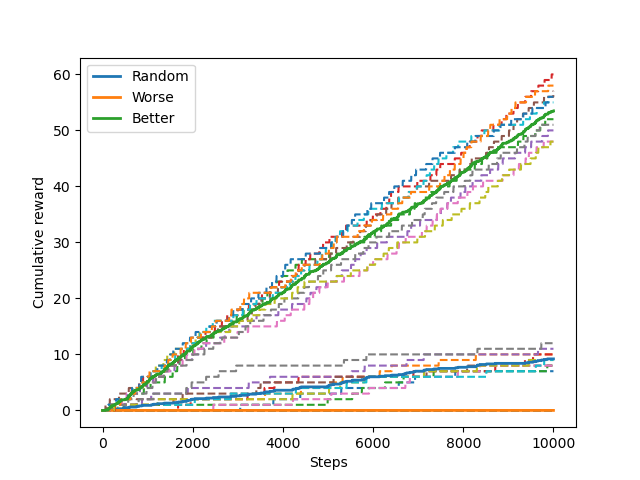
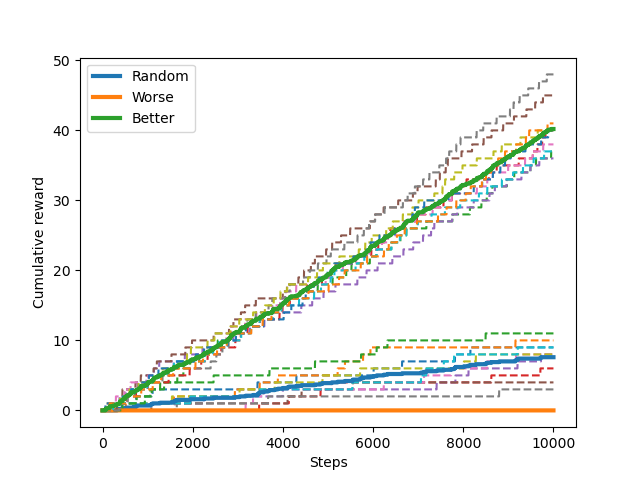
better policy working for both scenarios; target known and unknown

diff --git a/Assignment1/main.py b/Assignment1/main.py
@@ -20,7 +20,7 @@ def q1():
     print("Enter desired action : ")
     action = input()
     action_object = Action.Action(action)
-    random_policy = randomPolicy.RandomPolicy(my_grid)
+    random_policy = randomPolicy.RandomPolicy()
     simulation_object_random = Simulation.Simulation(my_grid, random_policy)
     curr_state, reward = simulation_object_random.transition(curr_state, action_object)
     print("Next state : ", curr_state.x, " ", curr_state.y)
@@ -48,7 +48,7 @@ def q3():
     source = (0, 0)
     target = (10, 10)
     my_grid = environment.Environment(source, target)
-    random_policy = randomPolicy.RandomPolicy(my_grid)
+    random_policy = randomPolicy.RandomPolicy()
     simulation_object_random = Simulation.Simulation(my_grid, random_policy)
     simulation_object_random.simulate()
     return
@@ -59,9 +59,9 @@ def q4():
     # fixed target
     target = (10, 10)
     my_grid = environment.Environment(source, target)
-    worse_policy = worsePolicy.WorsePolicy(my_grid)
-    random_policy = randomPolicy.RandomPolicy(my_grid)
-    better_policy = betterPolicy.BetterPolicy(my_grid)
+    worse_policy = worsePolicy.WorsePolicy()
+    random_policy = randomPolicy.RandomPolicy()
+    better_policy = betterPolicy.BetterPolicy(target)
     simulation_object_random = Simulation.Simulation(my_grid, random_policy)
     simulation_object_random.simulate()
     simulation_object_worse = Simulation.Simulation(my_grid, worse_policy)
@@ -76,12 +76,17 @@ def q5():
     # random target
     target = (randint(0, 10), randint(0, 10))
     my_grid = environment.Environment(source, target)
-    random_policy = randomPolicy.RandomPolicy(my_grid)
+    worse_policy = worsePolicy.WorsePolicy()
+    random_policy = randomPolicy.RandomPolicy()
+    better_policy = betterPolicy.BetterPolicy(target)
+    learned_policy = learnedPolicy.LearnedPolicy()
     simulation_object_random = Simulation.Simulation(my_grid, random_policy)
     simulation_object_random.simulate()
-    random_policy.print_lookup()
-    learned_policy = learnedPolicy.LearnedPolicy(my_grid)
     simulation_object_learned = Simulation.Simulation(my_grid, learned_policy)
+    simulation_object_learned.simulate()
+    simulation_object_worse = Simulation.Simulation(my_grid, worse_policy)
+    simulation_object_worse.simulate()
+    simulation_object_learned = Simulation.Simulation(my_grid, better_policy)
     simulation_object_learned.simulate()
     learned_policy.print_lookup()
     return

diff --git a/Assignment1/betterPolicy.py b/Assignment1/betterPolicy.py
@@ -2,49 +2,25 @@ from random import random, choice
 
 
 class BetterPolicy:
-    def __init__(self, grid):
+    def __init__(self, target):
         self.name = "Better"
-        height = grid.upper_limit - grid.lower_limit + 1
-        width = grid.right_limit - grid.left_limit + 1
-        self.lookup = [[{"up": 0, "down": 0, "left": 0, "right": 0}] * height] * width
+        self.lookup = [[{"up": 0, "down": 0, "left": 0, "right": 0}] * 11] * 11
+        self.target = target
         return
 
     def get_action(self, curr_state):
         action_prob = random()
-        if action_prob < 0.8:
+        if action_prob < 0.7:
             return choice(["up", "down", "left", "right"])
-        if curr_state.x < 5:
-            if curr_state.y >= 9:
-                return "down"
-            elif 6 <= curr_state.y < 8:
-                return "up"
-            elif curr_state.y == 8:
-                return "right"
-            elif curr_state.y < 4:
-                return "up"
-            elif curr_state.y == 4:
-                if curr_state.x == 0:
-                    return "right"
-                elif curr_state.x == 1:
-                    return "up"
-                else:
-                    return "left"
+        if curr_state.x<self.target[0]:
+            if curr_state.y<self.target[1]:
+                return choice(["up", "right"])
             else:
-                return "up"
-        elif curr_state.x == 5:
-            return "right"
+                return choice(["down", "right"])
         else:
-            if curr_state.y <= 2:
-                return "up"
-            elif curr_state.y == 3:
-                if curr_state.x < 8:
-                    return "right"
-                elif curr_state.x > 8:
-                    return "left"
-                else:
-                    return "up"
-            elif curr_state.y == 10:
-                return "right"
+            if curr_state.y<self.target[1]:
+                return choice(["up", "left"])
             else:
-                return "up"
-        return "up"
+                return choice(["down", "left"])
+        return choice(["up", "down", "left", "right"])
+    

diff --git a/Assignment1/randomPolicy.py b/Assignment1/randomPolicy.py
@@ -1,11 +1,9 @@
 import random
 
 class RandomPolicy:
-    def __init__(self, grid):
+    def __init__(self):
         self.name = "Random"
-        height = grid.upper_limit - grid.lower_limit + 1
-        width = grid.right_limit - grid.left_limit + 1
-        self.lookup = [[{"up": 0, "down": 0, "left": 0, "right": 0}] * height] * width
+        self.lookup = [[{"up": 0, "down": 0, "left": 0, "right": 0}] * 11] * 11
 
     def get_action(self, curr_state):
         return random.choice(["up", "down", "left", "right"])

diff --git a/Assignment1/learnedPolicy.py b/Assignment1/learnedPolicy.py
@@ -2,11 +2,9 @@ import random
 
 
 class LearnedPolicy:
-    def __init__(self, grid):
+    def __init__(self):
         self.name = "Learned"
-        height = grid.upper_limit - grid.lower_limit + 1
-        width = grid.right_limit - grid.left_limit + 1
-        self.lookup = [[{"up": 0, "down": 0, "left": 0, "right": 0}] * height] * width
+        self.lookup = [[{"up": 0, "down": 0, "left": 0, "right": 0}] * 11] * 11
         self.epsilon = 0.1
 
     def get_action(self, curr_state):

diff --git a/Assignment1/worsePolicy.py b/Assignment1/worsePolicy.py
@@ -1,9 +1,7 @@
 class WorsePolicy:
-    def __init__(self, grid):
+    def __init__(self):
         self.name = "Worse"
-        height = grid.upper_limit - grid.lower_limit + 1
-        width = grid.right_limit - grid.left_limit + 1
-        self.lookup = [[{"up": 0, "down": 0, "left": 0, "right": 0}] * height] * width
+        self.lookup = [[{"up": 0, "down": 0, "left": 0, "right": 0}] * 11] * 11
         return
 
     def get_action(self, curr_state):

diff --git a/Assignment1/Simulation.py b/Assignment1/Simulation.py
@@ -20,7 +20,7 @@ class Simulation:
         for i in trial_rewards:
             plt.plot(i, linestyle='dashed')
 
-        plt.plot(average_bar, linewidth=2, label=self.policy.name)
+        plt.plot(average_bar, linewidth=3, label=self.policy.name)
         plt.ylabel('Cumulative reward')
         plt.xlabel('Steps')
         plt.legend()
